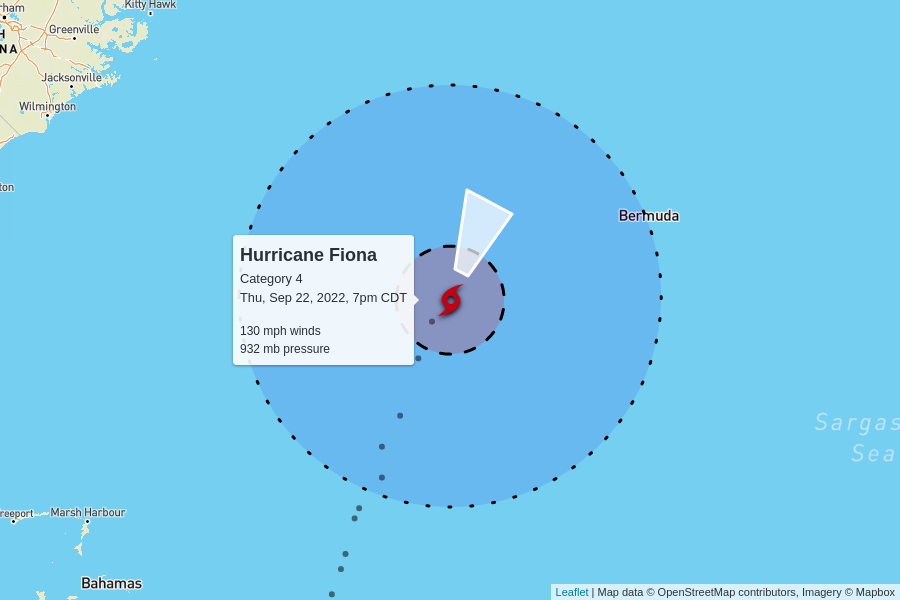
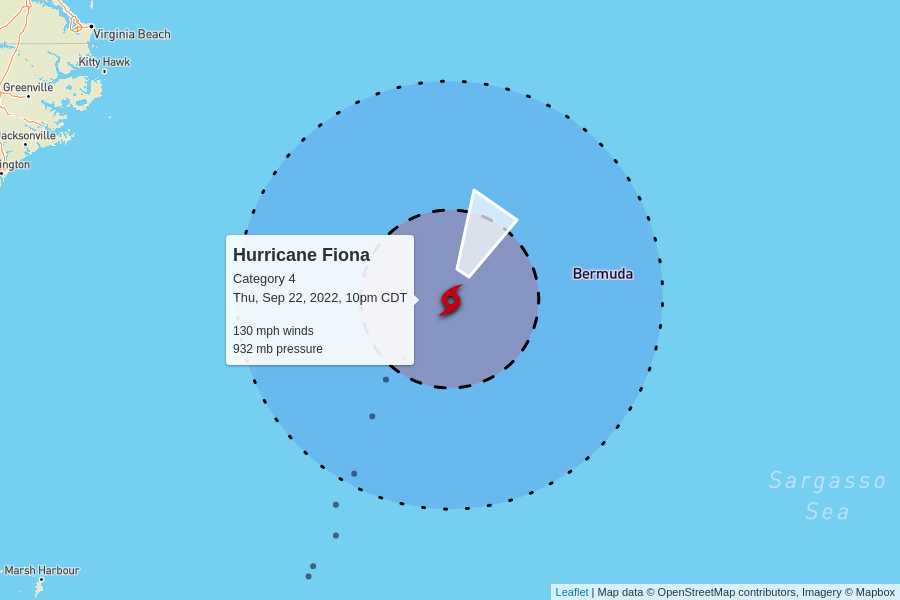
automatic update

diff --git a/docs/index.html b/docs/index.html
@@ -100,7 +100,7 @@
         <td colspan="6" class="storm category-4" >
           <h2>
             Hurricane Fiona - Category 4
-            <p class="updated">last updated <span data-time>2022-09-23T00:00:00.000Z</span></p>
+            <p class="updated">last updated <span data-time>2022-09-23T03:00:00.000Z</span></p>
           </h2>
         </td>
       </tr>
@@ -118,9 +118,9 @@
         <td>130 mph</td>
         <td>932 mb</td>
         <td>
-          20 mph to the north-northeast
+          21 mph to the north-northeast
           <br/>
-          <span style="display: inline-block; font-size: 1.5em; transform: rotate(25deg);">↑</span>
+          <span style="display: inline-block; font-size: 1.5em; transform: rotate(30deg);">↑</span>
         </td>
         <td><a href="https://raw.githubusercontent.com/mgwalker/atlantic-hurricanes/main/data/csv/AL072022.csv">AL072022.csv</a></td>
         <td><a href="https://www.nhc.noaa.gov/archive/2022/FIONA.shtml?">NHC advisories</a></td>
@@ -144,7 +144,7 @@
         <td colspan="6" class="storm category-0" >
           <h2>
             Tropical Storm Gaston
-            <p class="updated">last updated <span data-time>2022-09-23T00:00:00.000Z</span></p>
+            <p class="updated">last updated <span data-time>2022-09-23T03:00:00.000Z</span></p>
           </h2>
         </td>
       </tr>
@@ -162,9 +162,9 @@
         <td>65 mph</td>
         <td>999 mb</td>
         <td>
-          17 mph to the east
+          12 mph to the east
           <br/>
-          <span style="display: inline-block; font-size: 1.5em; transform: rotate(90deg);">↑</span>
+          <span style="display: inline-block; font-size: 1.5em; transform: rotate(100deg);">↑</span>
         </td>
         <td><a href="https://raw.githubusercontent.com/mgwalker/atlantic-hurricanes/main/data/csv/AL082022.csv">AL082022.csv</a></td>
         <td><a href="https://www.nhc.noaa.gov/archive/2022/GASTON.shtml?">NHC advisories</a></td>
